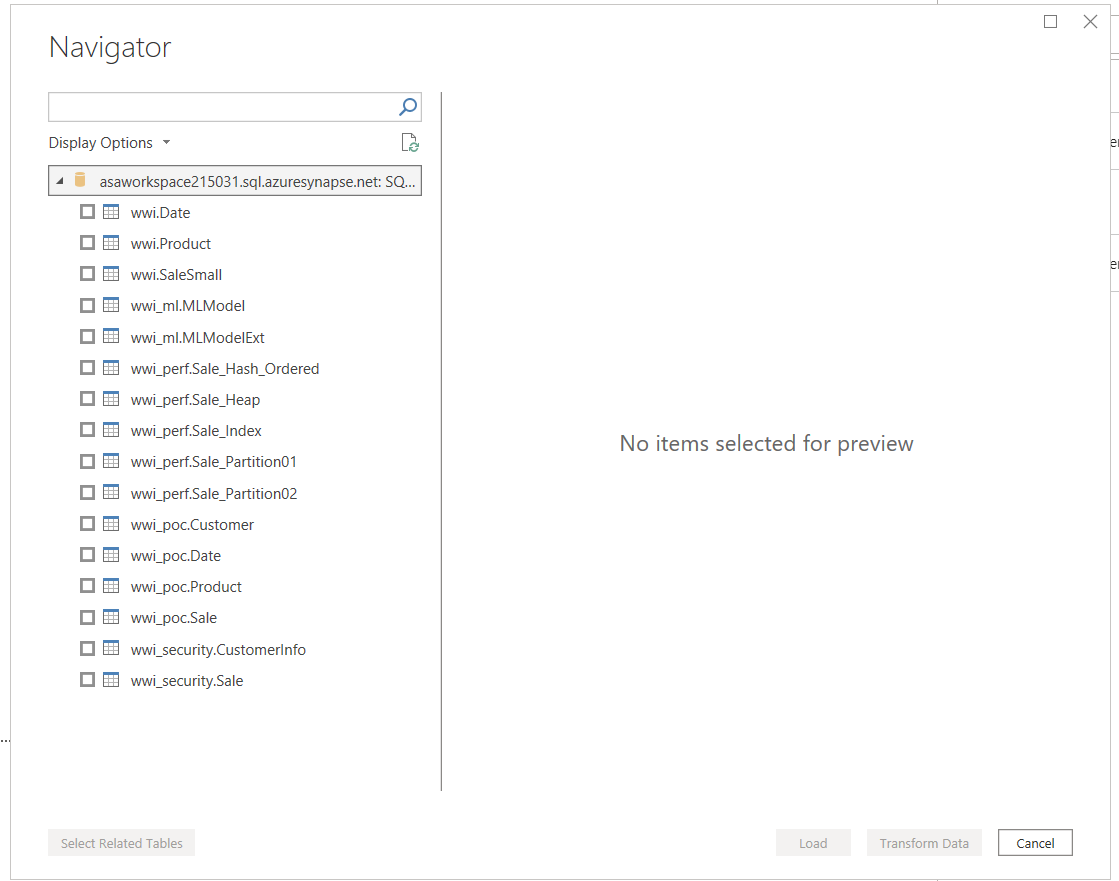
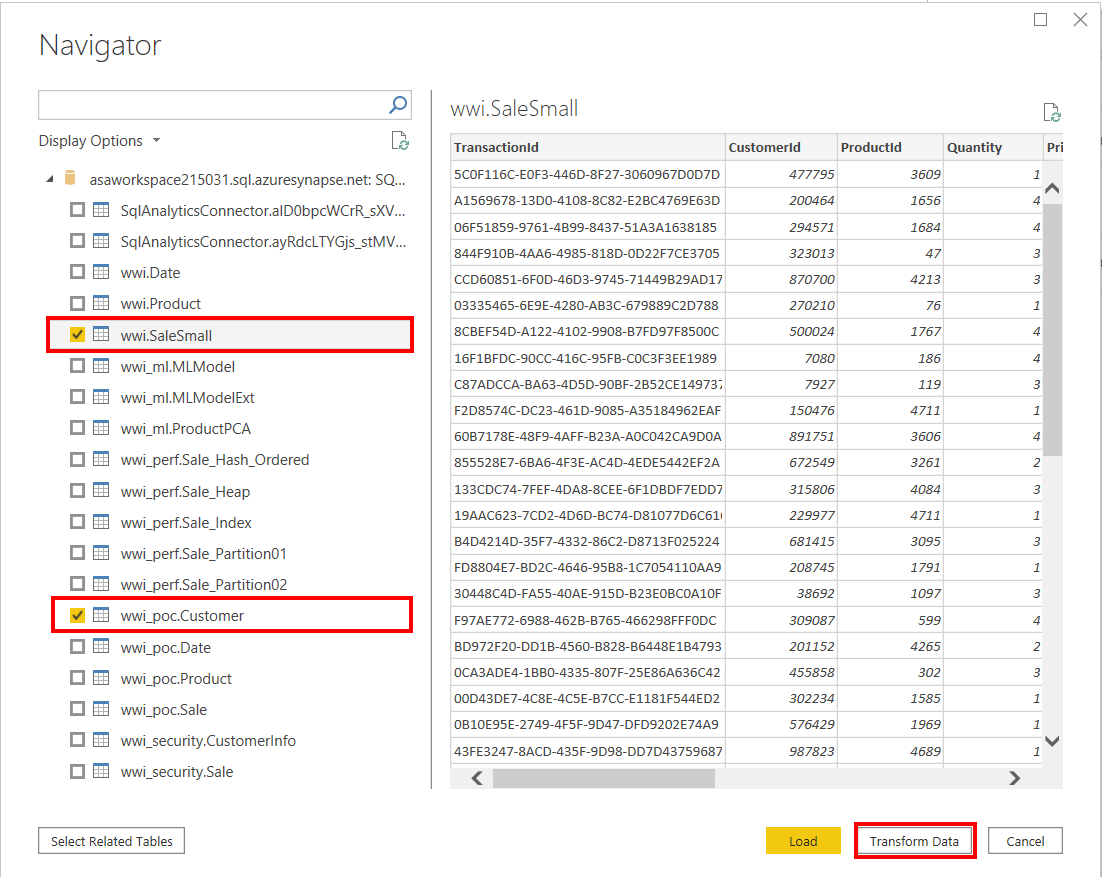
added media and content in the power BI extra lab

diff --git a/extra-labs/power-bi.md b/extra-labs/power-bi.md
@@ -12,6 +12,7 @@ For the remainder of this guide, the following terms will be used for various AS
 | Primary Storage Account | `PrimaryStorage` |
 | Default file system container | `DefaultFileSystem` |
 | SQL Pool | `SqlPool01` |
+| Lab schema name | `_poc_` |
 
 ## Exercise 1 - Power BI and Synapse workspace integration
 
@@ -45,15 +46,15 @@ TODO: Architectural diagram of integration
 
 ### Task 4 - Create a new datasource with Power BI Desktop
 
-1. In **Azure Synapse Studio** (<https://web.azuresynapse.net/>), select **Develop** from the left menu.
+1. In [**Azure Synapse Studio**](<https://web.azuresynapse.net/>), select **Develop** from the left menu.
 
-2. Beneath **Power BI**, select **Power BI datasets**.
+2. Beneath **Power BI**, under the linked Power BI workspace, select **Power BI datasets**.
 
-3. Select **New Power BI dataset** from the top navigation menu.
+3. Select **New Power BI dataset** from the top actions menu.
 
 ![Select the New Power BI dataset option](media/011-NewPBIDataset.png)
 
-4. Select **Start** and make sure you have Power BI desktop installed on your environment machine.
+4. Select **Start** and make sure you have Power BI Desktop installed on your environment machine.
 
 ![Start publishing the datasource to be used in Power BI desktop](media/012%20-%20NewPBIDataset.png)
 
@@ -71,64 +72,122 @@ TODO: Architectural diagram of integration
 
 ### Task 5 - Create a new Power BI report in Synapse Studio
 
-1. In [**Azure Synapse Studio**](<https://web.azuresynapse.net/>), select **Develop** from the left menu. Select **+** to create a new SQL Script. Execute the following query to get an approximation of its execution time:
+1. In [**Azure Synapse Studio**](<https://web.azuresynapse.net/>), select **Develop** from the left menu. Select **+** to create a new SQL Script. Execute the following query to get an approximation of its execution time. This will be the query we'll use to bring data in the Power BI report you'll build later in this exercise.
    
 ```sql
 SELECT count(*) FROM
 (
     SELECT
-    FS.CustomerID
-    ,P.Seasonality
-    ,D.Year
-    ,D.Quarter
-    ,D.Month
-    ,FS.StoreId
-    ,avg(FS.TotalAmount) as AvgTotalAmount
-    ,avg(FS.ProfitAmount) as AvgProfitAmount
-    ,sum(FS.TotalAmount) as TotalAmount
-    ,sum(FS.ProfitAmount) as ProfitAmount
-FROM
-        wwi_pbi.SaleSmall FS
-        JOIN wwi_pbi.Product P ON P.ProductId = FS.ProductId
-        JOIN wwi_pbi.Date D ON FS.TransactionDateId = D.DateId
+        FS.CustomerID
+        ,P.Seasonality
+        ,D.Year
+        ,D.Quarter
+        ,D.Month
+        ,avg(FS.TotalAmount) as AvgTotalAmount
+        ,avg(FS.ProfitAmount) as AvgProfitAmount
+        ,sum(FS.TotalAmount) as TotalAmount
+        ,sum(FS.ProfitAmount) as ProfitAmount
+    FROM
+            wwi.SaleSmall FS
+            JOIN wwi_poc.Product P ON P.ProductId = FS.ProductId
+            JOIN wwi_poc.Date D ON FS.TransactionDateId = D.DateId
     GROUP BY
         FS.CustomerID
         ,P.Seasonality
         ,D.Year
         ,D.Quarter
         ,D.Month
-        ,FS.StoreId
 ) T
  ```
 
-2. Open the downloaded .pbids file from Task 4 in Power BI Desktop. Select **Microsoft account**, sign in with the provided credentials for this lab and click **Connect**.
+2. To connect to your datasource, open the downloaded .pbids file  in Power BI Desktop. Select the **Microsoft account** option on the left, **Sign in** (with the provided credentials for connecting to the Synapse workspace) and click **Connect**.
    
 ![Sign in with the Microsoft account and connect](media/021%20-%20ConnectionSettingsPowerBIDesktop.png)
 
-3. Select for start the `wwi_pbi.Customer` table in the navigator dialog.
+3. In the Navigator dialog, just select for now the `wwi_pbi.Customer` and  `wwi.SaleSmall` tables, since next we'll replace this option with the query we built earlier, on the first step of this exercise. Next, click on **Transform data**.
 
-![Select Direct Query](media/022%20-%20Datasource%20Navigator%20.png)
+![Select tables for query](media/022%20-%20Datasource%20Navigator%20.png)
 
-4. Select the Direct Query option in the connection dialog. Click OK and wait a few seconds while the connection is configured.
+4. Select the **Direct Query** option in the connection settings dialog, since our intention is not to bring a copy of the data into Power BI, but to be able to query the datasource while working with the report visualizations. Click **OK** and wait a few seconds while the connection is configured.
 
 ![Select Direct Query](media/022%20-%20SelectDirectQuery.png)
 
-5. Open the Datasource settings dialog from the Transform Data top menu.
 
-![Transform Data -> Datasource settings menu](media/023%20-%20Datasource%20Settings.png)
-
-5. In the Datasource settings dialog select the Synapse connection and click on Change datasource button.
+5. In the editor, first select the wwi.SalesSmall table, then open the settings page of the first step in the query. Expand the **Advanced options** section, paste the following query and click **OK**. 
+   
+```sql
+SELECT count(*) FROM
+(
+    SELECT
+        FS.CustomerID
+        ,P.Seasonality
+        ,D.Year
+        ,D.Quarter
+        ,D.Month
+        ,avg(FS.TotalAmount) as AvgTotalAmount
+        ,avg(FS.ProfitAmount) as AvgProfitAmount
+        ,sum(FS.TotalAmount) as TotalAmount
+        ,sum(FS.ProfitAmount) as ProfitAmount
+    FROM
+            wwi.SaleSmall FS
+            JOIN wwi_poc.Product P ON P.ProductId = FS.ProductId
+            JOIN wwi_poc.Date D ON FS.TransactionDateId = D.DateId
+    GROUP BY
+        FS.CustomerID
+        ,P.Seasonality
+        ,D.Year
+        ,D.Quarter
+        ,D.Month
+) T
+```
 
 ![Datasource change dialog](media/024%20-%20Edit%20datasource.png)
+
+Note that this step will take at least 30-40 seconds to execute, since it submits the query on the Synapse pool configured connection.
+
+6. Delete the second step in the applied steps, since it was initially querying the entire SalesSmall table. 
+   
+![Delete temporary table navigation step](media/025%20-%20DeleteTheNavigationStep.png)
+
+7. Select **Close & Apply** on the topmost left corner of the editor window to apply the query and fetch the initial schema in the Power BI designer window.
+
+![Save query properties](media/026%20-%20CloseAndApply.png)
+
+8. Back to the Power BI report editor, expand the **Visualizations** menu on the right, and drag a **Line and stacked column chart** on the report canvas.
+
+![Create new visualization chart](media/027%20-%20CreateVisualization.png)
+
+9. Select the newly created chart to expand it's properties pane. Using the expanded **Fields** menu, configure the visualization as follows:
+     - Shared axis: Year, Quarter
+     - Column series: Seasonality
+     - Column values: Toatalmount
+     - Line values: ProfitAmount
+
+![Configure chart properties](media/028%20-%20ConfigureVisualization.png)
+
+10.  Switching back to the Azure Synapse Studio, you can check the query executed while configuring the visualization in the Power BI Desktop application. Open the **Monitor** hub, and under the **Activities** section, open the **SQL requests** monitor. Make sure you select **SQLPool01** in the Pool filter.
+     
+![Open query monitoring from Synapse Studio](media/029%20-%20MonitorQueryExecution.png)
+
+11. Identify the query behind your visualization in the topmost requests you see in the log and observe the duration which is about 30 seconds. Use the **Request content** option to look into the actual query submited from Power BI Desktop.
+
+![Check the request content in the monitor](media/030%20-%20CheckRequestContent.png)
+
+![Check the request content in the monitor](media/031%20-%20QueryRequestContent.png)
+
+12.  Back to the Power BI Desktop application, Save and Publish the created report. Make sure that, in Power BI Desktop you are signed in  with the same account you use in the Power BI portal and in Azure Synapse. You can switch to the proper account from the right topmost corner of the window. In the **Publish to Power BI** dialog, select the workspace you linked to Synapse, named **Synapse 01** in our demonstration.
+   
+![Publish report to the linked workspace](media/032%20-%20Publish.png)
+
+After the operation completes with success, you should be able to see this report published in the Power BI portal, as well as in the Synapse Studio, Develop hub, under the Power BI reports node.
 
 ## Exercise 2 - Optimizing integration with Power BI
 
 ### Task 1 - Explore Power BI optimization options
-- diagram in slide deck
-  
-- In-memory
-- Dual table
-- DirectQuery
+
+Let's recall the performance optimization options we have when integrating Power BI reports in Azure Synapse Analytics, among which we'll demonstrate the use of Result-set caching and materialzed views options later in this exercise.
+
+![Power BI performance optimization options](media/power-bi-optimization.png)
 
 
 ### Task 2 - Improve performance with materialized views
@@ -147,22 +206,20 @@ SELECT * FROM
     ,D.Year
     ,D.Quarter
     ,D.Month
-    ,FS.StoreId
     ,avg(FS.TotalAmount) as AvgTotalAmount
     ,avg(FS.ProfitAmount) as AvgProfitAmount
     ,sum(FS.TotalAmount) as TotalAmount
     ,sum(FS.ProfitAmount) as ProfitAmount
 FROM
-        wwi_pbi.SaleSmall FS
-        JOIN wwi_pbi.Product P ON P.ProductId = FS.ProductId
-        JOIN wwi_pbi.Date D ON FS.TransactionDateId = D.DateId
+        wwi.SaleSmall FS
+        JOIN wwi_poc.Product P ON P.ProductId = FS.ProductId
+        JOIN wwi_poc.Date D ON FS.TransactionDateId = D.DateId
     GROUP BY
         FS.CustomerID
         ,P.Seasonality
         ,D.Year
         ,D.Quarter
         ,D.Month
-        ,FS.StoreId
 ) T
 ```
 
@@ -179,22 +236,20 @@ FROM
       ,D.Year
       ,D.Quarter
       ,D.Month
-      ,FS.StoreId
       ,avg(FS.TotalAmount) as AvgTotalAmount
       ,avg(FS.ProfitAmount) as AvgProfitAmount
       ,sum(FS.TotalAmount) as TotalAmount
       ,sum(FS.ProfitAmount) as ProfitAmount
   FROM
-          wwi_pbi.SaleSmall FS
-          JOIN wwi_pbi.Product P ON P.ProductId = FS.ProductId
-          JOIN wwi_pbi.Date D ON FS.TransactionDateId = D.DateId
+          wwi.SaleSmall FS
+          JOIN wwi_poc.Product P ON P.ProductId = FS.ProductId
+          JOIN wwi_poc.Date D ON FS.TransactionDateId = D.DateId
       GROUP BY
           FS.CustomerID
           ,P.Seasonality
           ,D.Year
           ,D.Quarter
           ,D.Month
-          ,FS.StoreId
   ) T</sql>
     <dsql_operations total_cost="10.61376" total_number_operations="12">
   ```
@@ -215,20 +270,18 @@ FROM
       ,D.Year
       ,D.Quarter
       ,D.Month
-      ,FS.StoreId
       ,sum(FS.TotalAmount) as TotalAmount
       ,sum(FS.ProfitAmount) as ProfitAmount
   FROM
-      wwi_pbi.SaleSmall FS
-      JOIN wwi_pbi.Product P ON P.ProductId = FS.ProductId
-      JOIN wwi_pbi.Date D ON FS.TransactionDateId = D.DateId
+      wwi.SaleSmall FS
+      JOIN wwi_poc.Product P ON P.ProductId = FS.ProductId
+      JOIN wwi_poc.Date D ON FS.TransactionDateId = D.DateId
   GROUP BY
       FS.CustomerID
       ,P.Seasonality
       ,D.Year
       ,D.Quarter
       ,D.Month
-      ,FS.StoreId
   ```
 
 5. Run the following query to get an estimated execution plan:
@@ -243,7 +296,6 @@ SELECT * FROM
   ,D.Year
   ,D.Quarter
   ,D.Month
-  ,FS.StoreId
   ,avg(FS.TotalAmount) as AvgTotalAmount
   ,avg(FS.ProfitAmount) as AvgProfitAmount
   ,sum(FS.TotalAmount) as TotalAmount
@@ -258,7 +310,6 @@ SELECT * FROM
       ,D.Year
       ,D.Quarter
       ,D.Month
-      ,FS.StoreId
   ) T
 
 ```
